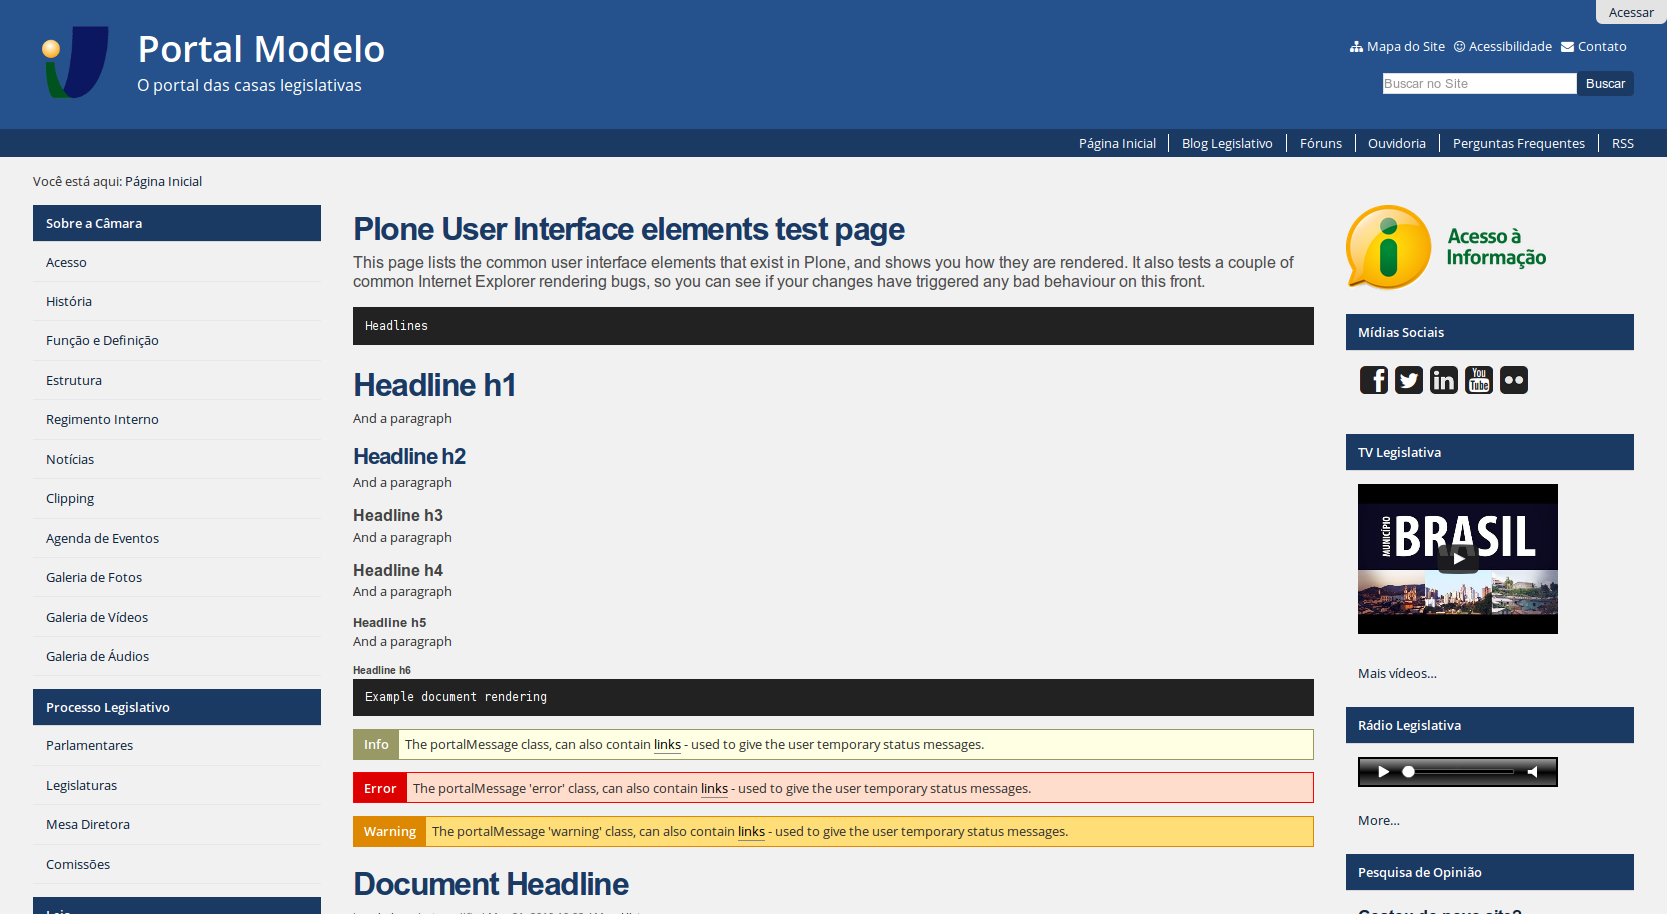
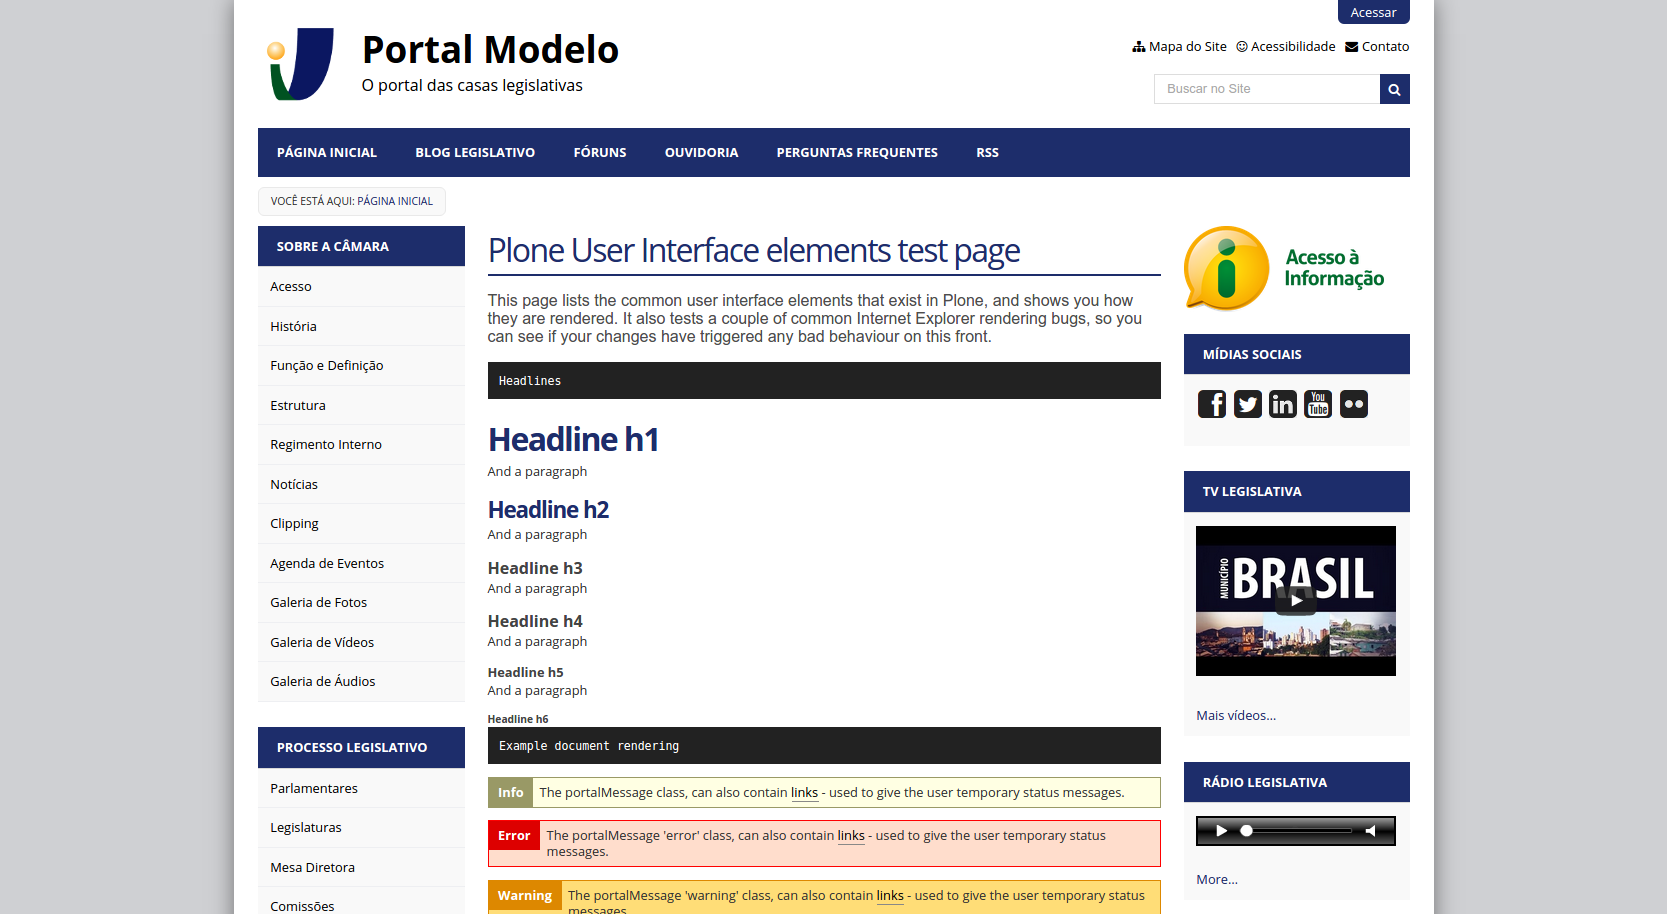
Fix tests and preview for Apucarana Theme

diff --git a/src/interlegis/portalmodelo/theme/tests/test_setup.py b/src/interlegis/portalmodelo/theme/tests/test_setup.py
@@ -42,7 +42,7 @@ class InstallTestCase(unittest.TestCase):
     def test_temas_disponiveis(self):
         themes = getAvailableThemes()
         # Nossos temas + os dois do Plone
-        self.assertEqual(len(themes), 16)
+        self.assertEqual(len(themes), 17)
 
     def test_tema_Areia_disponivel(self):
         theme = getTheme('Areia')
@@ -196,6 +196,17 @@ class InstallTestCase(unittest.TestCase):
                          'Tema Original do Portal Modelo')
         self.assertEqual(theme.rules, '/++theme++Original/rules.xml')
         self.assertEqual(theme.absolutePrefix, '/++theme++Original')
+        self.assertEqual(theme.doctype, "<!DOCTYPE html>")
+
+    def test_tema_apucarana_disponivel(self):
+        theme = getTheme('Apucarana')
+        self.assertTrue(theme is not None)
+        self.assertEqual(theme.__name__, 'Apucarana')
+        self.assertEqual(theme.title, 'Tema Apucarana')
+        self.assertEqual(theme.description,
+                         'Tema Apucarana para o Portal Modelo, inspirado pela Câmara Municipal de Apucarana')
+        self.assertEqual(theme.rules, '/++theme++Apucarana/rules.xml')
+        self.assertEqual(theme.absolutePrefix, '/++theme++Apucarana')
         self.assertEqual(theme.doctype, "<!DOCTYPE html>")
 
     def test_normalize_css_registered(self):

diff --git a/README.rst b/README.rst
@@ -125,6 +125,13 @@ Tema Original
         :width: 200px
         :height: 110px
 
+Tema Apucarana
+------------------
+
+.. image:: https://raw.githubusercontent.com/interlegis/interlegis.portalmodelo.theme/master/src/interlegis/portalmodelo/theme/themes/Apucarana/preview.png
+        :width: 200px
+        :height: 110px
+
 
 Estado Deste Pacote
 ===================
